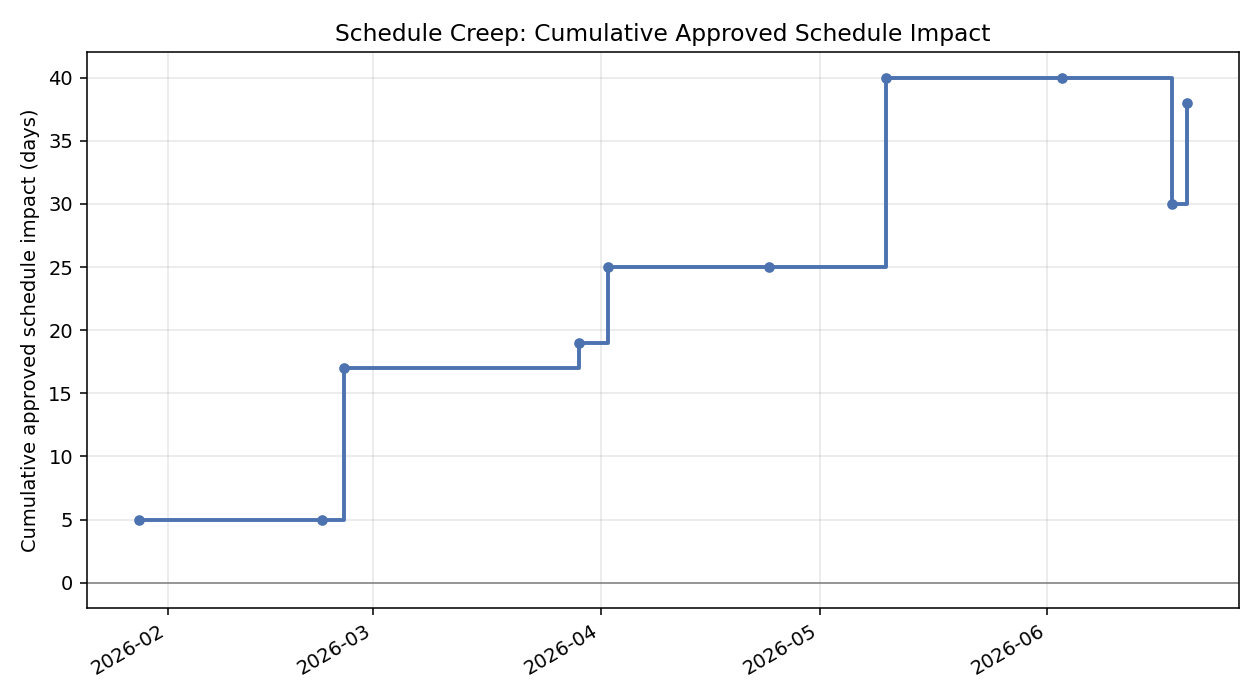
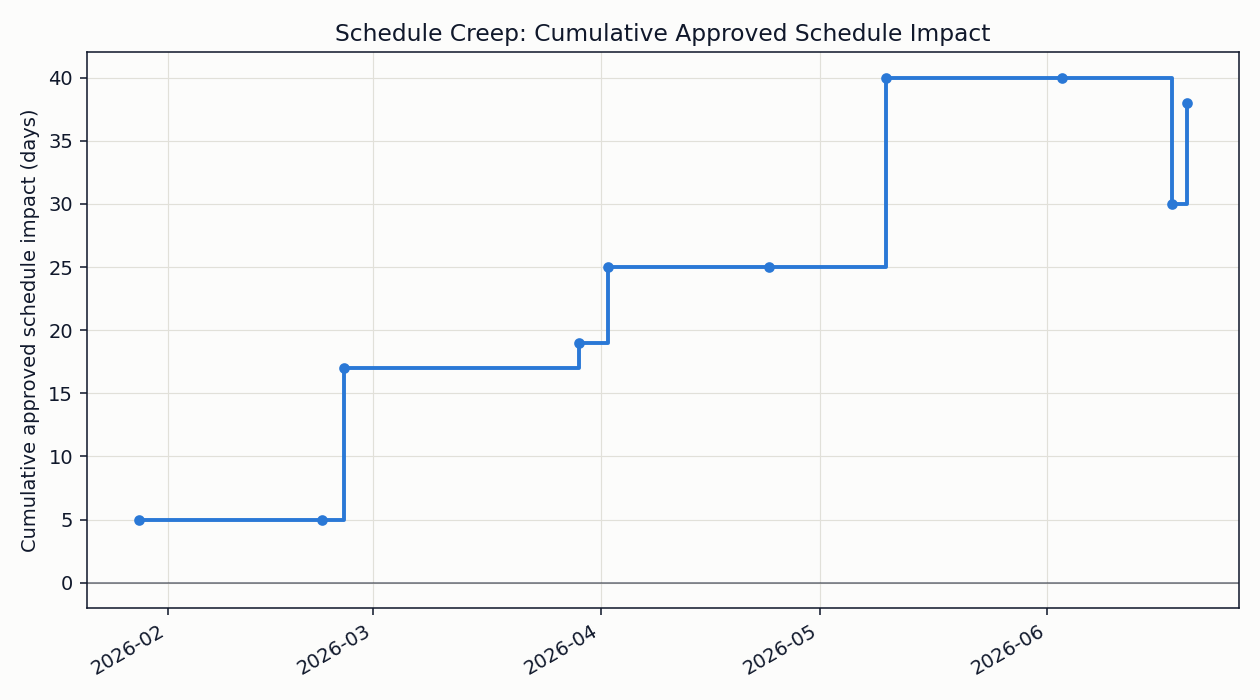
Standardize chart color system across the toolkit

diff --git a/change_control.py b/change_control.py
@@ -21,6 +21,33 @@ ASSETS_DIR = os.path.join(os.path.dirname(__file__), "assets")
 
 STATUS_DATE = "2026-08-01"
 
+# Standardized chart color system (chart chrome, status scale, categorical series, baseline)
+CHART_BG = "#fcfcfb"
+INK = "#10182b"
+GRID = "#e1e0d9"
+BASELINE = "#3a4d7a"
+SERIES_1 = "#2a78d6"
+STATUS_GOOD = "#0ca30c"
+STATUS_WARNING = "#fab219"
+STATUS_CRITICAL = "#d03b3b"
+
+
+def _apply_chrome(fig, axes) -> None:
+    """Apply the standardized chart chrome (background, ink, gridlines) to a figure."""
+    fig.patch.set_facecolor(CHART_BG)
+    if hasattr(axes, "flatten"):
+        axes = axes.flatten().tolist()
+    elif not isinstance(axes, (list, tuple)):
+        axes = [axes]
+    for ax in axes:
+        ax.set_facecolor(CHART_BG)
+        ax.title.set_color(INK)
+        ax.xaxis.label.set_color(INK)
+        ax.yaxis.label.set_color(INK)
+        ax.tick_params(colors=INK)
+        for spine in ax.spines.values():
+            spine.set_color(INK)
+
 
 def money(x: float) -> str:
     return f"${x:,.0f}"
@@ -62,15 +89,16 @@ def print_report(changes, cum, stats: dict) -> None:
 def chart_cumulative(cum, value_col: str, ylabel: str, title: str, filename: str) -> None:
     fig, ax = plt.subplots(figsize=(9, 5))
     ax.step(cum["date_decided"].to_numpy(), cum[value_col].to_numpy(), where="post",
-            color="#4C72B0", linewidth=2)
-    ax.scatter(cum["date_decided"].to_numpy(), cum[value_col].to_numpy(), color="#4C72B0", s=20, zorder=3)
-    ax.axhline(0, color="gray", linewidth=0.8)
+            color=SERIES_1, linewidth=2)
+    ax.scatter(cum["date_decided"].to_numpy(), cum[value_col].to_numpy(), color=SERIES_1, s=20, zorder=3)
+    ax.axhline(0, color=INK, linewidth=0.8, alpha=0.6)
     ax.set_ylabel(ylabel)
     ax.set_title(title)
-    ax.grid(alpha=0.3)
+    ax.grid(color=GRID, linewidth=0.6)
+    _apply_chrome(fig, ax)
     fig.autofmt_xdate()
     fig.tight_layout()
-    fig.savefig(os.path.join(ASSETS_DIR, filename), dpi=140)
+    fig.savefig(os.path.join(ASSETS_DIR, filename), dpi=140, facecolor=CHART_BG)
     plt.close(fig)
 
 
@@ -81,19 +109,20 @@ def chart_cycle_time(changes) -> None:
         labels.append(f"{row['change_id']} ({row['status']})")
         if row["status"] == "Pending":
             values.append(row["days_open"])
-            colors.append("#C44E52" if row["is_stale"] else "#DD8452")
+            colors.append(STATUS_CRITICAL if row["is_stale"] else STATUS_WARNING)
         else:
             values.append(row["cycle_days"])
-            colors.append("#4C72B0")
+            colors.append(STATUS_GOOD)
     ax.barh(labels, values, color=colors)
-    ax.axvline(metrics.STALE_PENDING_DAYS, color="gray", linestyle="--", linewidth=1,
+    ax.axvline(metrics.STALE_PENDING_DAYS, color=BASELINE, linestyle="--", linewidth=1,
                label=f"Stale threshold ({metrics.STALE_PENDING_DAYS}d)")
     ax.set_xlabel("Days")
-    ax.set_title("Decision Cycle Time (blue = decided) / Days Open (orange/red = pending)")
+    ax.set_title("Decision Cycle Time (green = decided) / Days Open (amber/red = pending)")
     ax.legend(fontsize=8)
-    ax.grid(alpha=0.3, axis="x")
+    ax.grid(color=GRID, linewidth=0.6, axis="x")
+    _apply_chrome(fig, ax)
     fig.tight_layout()
-    fig.savefig(os.path.join(ASSETS_DIR, "cycle_time.png"), dpi=140)
+    fig.savefig(os.path.join(ASSETS_DIR, "cycle_time.png"), dpi=140, facecolor=CHART_BG)
     plt.close(fig)
 
 

diff --git a/README.md b/README.md
@@ -80,8 +80,8 @@ were decided.
 
 ![Cumulative cost](assets/cumulative_cost.png)
 
-**Decision cycle time** — days to decide for resolved changes (blue), days
-open for pending ones (orange, red if stale).
+**Decision cycle time** — days to decide for resolved changes (green), days
+open for pending ones (amber, red if stale).
 
 ![Cycle time](assets/cycle_time.png)
 
